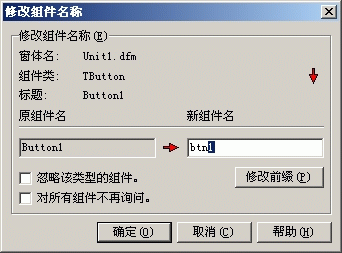
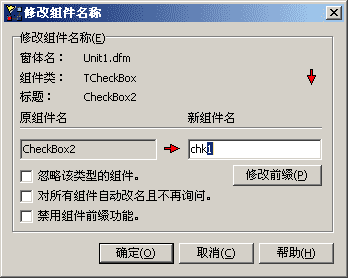
* [Prefix Wizard] Update Help.

Changed region(s): [[0.0, 0.0, 0.9942, 0.9684], [0.2339, 0.1937, 0.4094, 0.3874]]

diff --git a/Help/CnWizards_ENU/wizards/prefixwizard.htm b/Help/CnWizards_ENU/wizards/prefixwizard.htm
@@ -69,7 +69,11 @@ You can enter new component name here.</p>
   </li>
   <li>
 <p class="text" align="left">
-<b>Never Ask Again</b>: If this was selected, all rename operations will be executed automatically without showing this dialog.</p>
+<b>Auto Rename and Never Ask Again</b>: If this was selected, all rename operations will be executed automatically without showing this dialog.</p>
+  </li>
+  <li>
+<p class="text" align="left">
+<b>Disable Prefix Wizard</b>: If this was selected, the Prefix feature will be disabled without any renaming or dialog. You can re-enable it in CnPack IDE Wizards setting dialog.</p>
   </li>
   <li>
 <p class="text" align="left">
